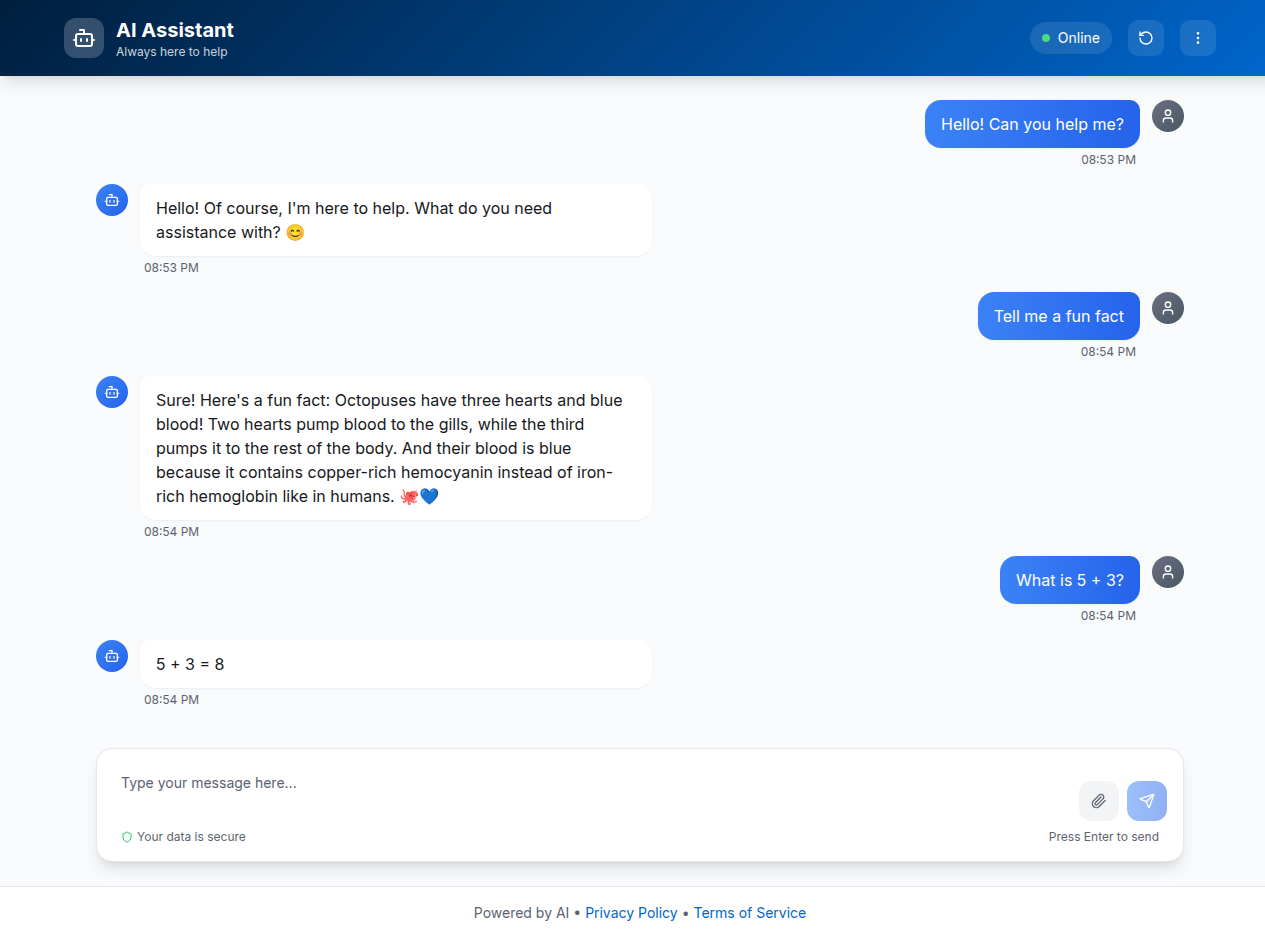
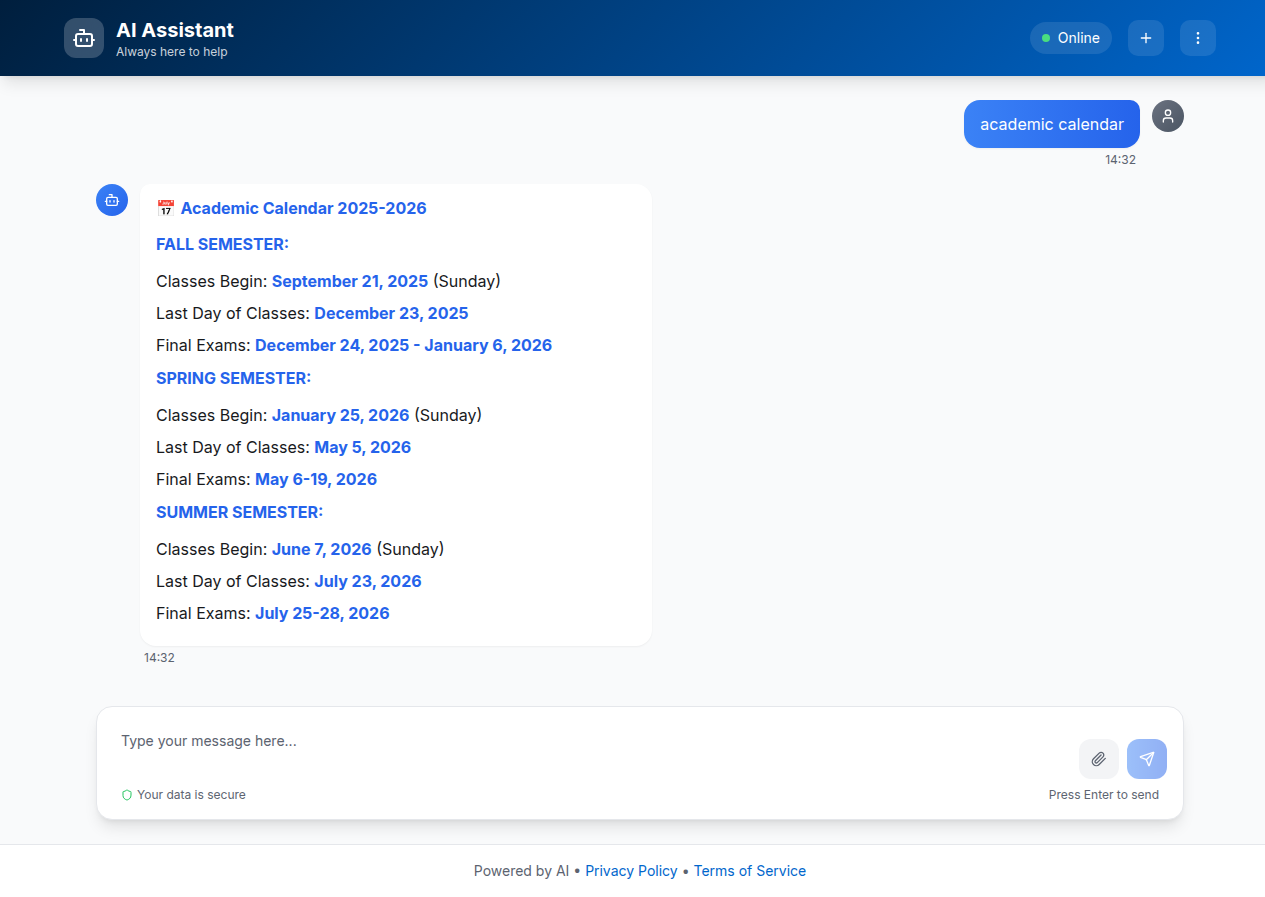
Update chatbot to suggest academic calendar and correct course names
Modify client-side suggestions to include "academic calendar" and update course titles in server-side data.

Replit-Commit-Author: Agent
Replit-Commit-Session-Id: 2b2b8913-718b-40d9-a4ee-a638ee3c5d89
Replit-Commit-Checkpoint-Type: full_checkpoint
Replit-Commit-Screenshot-Url: https://storage.googleapis.com/screenshot-production-us-central1/dbdc48a8-5b60-4a34-bc42-e705fea07ce4/2b2b8913-718b-40d9-a4ee-a638ee3c5d89/eGvz9V8

diff --git a/server/routes.ts b/server/routes.ts
@@ -1006,18 +1006,18 @@ DATA SCIENCE & ARTIFICIAL INTELLIGENCE (120 Credits)
 - ENL201 (Writing and Research)
 - MAT120 (Discrete Mathematics)
 - MAT202 (Linear Algebra)
-- CCS120 (Programming Fundamentals 1) + CCS121 (Lab)
+- CCS120 (Computational Thinking & Programming) + CCS121 (Lab)
 - CCS230 (Data Structures) + CCS231 (Lab)
 
 **YEAR 2 - SPRING:**
 - ENG304 (Probability and Statistics)
-- CCS220 (Programming Fundamentals 2) + CCS221 (Lab)
-- CCS270 (Object-Oriented Programming) + CCS271 (Lab)
-- CCS342 (Database Systems)
+- CCS220 (Object Oriented Design & Programming) + CCS221 (Lab)
 - Global Citizen Elective
+- DAI230 (Mathematics for Data Science & AI)
+- CC342 (IT Infrastructure)
 
 **YEAR 3 - FALL:**
-- DAI230 (Mathematics for Data Science & AI)
+- CCS270 (Fundamental Of Database Systems) + CCS271 (Lab)
 - DAI250 (Fundamentals of Data Science & AI) + DAI251 (Lab)
 - CCS330 (Web Engineering) + CCS331 (Lab)
 - DAI310 (Machine Learning) + DAI311 (Lab)
@@ -1065,18 +1065,19 @@ SOFTWARE ENGINEERING (132 Credits)
 **YEAR 2 - FALL:**
 - ENL201 (Writing and Research)
 - MAT202 (Linear Algebra)
-- CCS120 (Programming Fundamentals 1) + CCS121 (Lab)
-- CCS230 (Data Structures) + CCS231 (Lab)
+- CCS120 (Computational Thinking & Programming) + CCS121 (Lab)
+- ENG304 (Probability and Statistics)
 - Art/Humanities Elective 1
 
 **YEAR 2 - SPRING:**
-- ENG304 (Probability and Statistics)
-- CCS220 (Programming Fundamentals 2) + CCS221 (Lab)
-- CCS270 (Object-Oriented Programming) + CCS271 (Lab)
-- CCS342 (Database Systems)
-- CCS320 (Operating Systems)
+- CCS220 (Object Oriented Design & Programming) + CCS221 (Lab)
+- Art/Humanities Elective 2
+- General Elective 1
+- General Elective 2
 
 **YEAR 3 - FALL:**
+- CCS270 (Fundamental Of Database Systems) + CCS271 (Lab)
+- CCS230 (Data Structures) + CCS231 (Lab)
 - SWE301 (Software Process and Methodologies)
 - SWE305 (Software Requirements Engineering) + SWE306 (Lab)
 - SWE310 (Human-Computer Interaction) + SWE311 (Lab)
@@ -1084,23 +1085,22 @@ SOFTWARE ENGINEERING (132 Credits)
 - Global Citizen Elective
 
 **YEAR 3 - SPRING:**
+- CCS320 (Operating Systems)
+- CCS330 (Web Engineering) + CCS331 (Lab)
 - SWE340 (Software Design and Architecture) + SWE341 (Lab)
 - SWE420 (Software Construction and Evolution) + SWE421 (Lab)
 - SWE430 (Software Testing and Quality Assurance) + SWE431 (Lab)
 - Innovation & Creativity Elective
-- Art/Humanities Elective 2
 
 **YEAR 4 - FALL:**
 - SWE440 (Software Security and Analysis)
 - Program Elective 1
-- General Elective 1
 - Free Elective 1
 - SWE490 (Capstone Design 1)
 
 **YEAR 4 - SPRING:**
 - SWE491 (Capstone Design 2)
 - Program Elective 2
-- General Elective 2
 - Free Elective 2
 - SWE480 (Internship) - Optional
 
@@ -1125,30 +1125,33 @@ CYBERSECURITY ENGINEERING (132 Credits)
 **YEAR 2 - FALL:**
 - ENL201 (Writing and Research)
 - MAT202 (Linear Algebra)
-- CCS120 (Programming Fundamentals 1) + CCS121 (Lab)
-- CCS230 (Data Structures) + CCS231 (Lab)
+- CCS120 (Computational Thinking & Programming) + CCS121 (Lab)
+- CCS241 (Computer Networks)
 - Art/Humanities Elective 1
 
 **YEAR 2 - SPRING:**
 - ENG304 (Probability and Statistics)
-- CCS220 (Programming Fundamentals 2) + CCS221 (Lab)
+- CCS220 (Object Oriented Design & Programming) + CCS221 (Lab)
 - CCS241 (Computer Networks)
-- CCS270 (Object-Oriented Programming) + CCS271 (Lab)
-- CCS320 (Operating Systems)
+- CSE210 (Fundamentals of Cyber Security Engineering)
+- Art/Humanities Elective 2
+
 
 **YEAR 3 - FALL:**
-- CSE210 (Fundamentals of Cyber Security Engineering)
+- CCS230 (Data Structures) + CCS231 (Lab)
 - CSE310 (Cryptography and Data Security) + CSE311 (Lab)
 - CSE325 (Cybersecurity Risk Management) + CSE326 (Lab)
 - CSE341 (Network Security)
 - Global Citizen Elective
 
 **YEAR 3 - SPRING:**
+- CCS270 (Fundamental Of Database Systems) + CCS271 (Lab)
+- CCS320 (Operating Systems)
 - CSE360 (Ethical Hacking and Cyber Laws)
 - CSE410 (Digital Forensics) + CSE411 (Lab)
 - CSE420 (Software Security) + CSE421 (Lab)
 - Innovation & Creativity Elective
-- Art/Humanities Elective 2
+
 
 **YEAR 4 - FALL:**
 - CSE430 (Web Security) + CSE431 (Lab)
@@ -1186,20 +1189,20 @@ COMPUTER SYSTEMS ENGINEERING (132 Credits)
 - ENL201 (Writing and Research)
 - MAT201 (Calculus III)
 - MAT202 (Linear Algebra)
-- CCS120 (Programming Fundamentals 1) + CCS121 (Lab)
+- CCS120 (Computational Thinking & Programming)) + CCS121 (Lab)
 - CCS200 (Digital Logic Design)
 
 **YEAR 2 - SPRING:**
 - MAT240 (Differential Equations)
-- CCS220 (Programming Fundamentals 2) + CCS221 (Lab)
-- CCS230 (Data Structures) + CCS231 (Lab)
+- CCS220 (Object Oriented Design & Programming) + CCS221 (Lab)
+- ENG304 (Probability and Statistics)
 - ENG205 (Electrical Circuits) + ENG206 (Lab)
 - Art/Humanities Elective 1
 
 **YEAR 3 - FALL:**
-- ENG304 (Probability and Statistics)
+- CCS230 (Data Structures) + CCS231 (Lab)
 - CCS241 (Computer Networks)
-- CCS270 (Object-Oriented Programming) + CCS271 (Lab)
+- CCS270 (Fundamental Of Database Systems) + CCS271 (Lab)
 - ENG207 (Electronics) + ENG208 (Lab)
 - CME220 (Introduction to Computer Systems Engineering)
 

diff --git a/client/src/pages/chat.tsx b/client/src/pages/chat.tsx
@@ -1,7 +1,7 @@
 import { useState, useRef, useEffect } from "react";
 import { useQuery, useMutation, useQueryClient } from "@tanstack/react-query";
 import { motion, AnimatePresence } from "framer-motion";
-import { Bot, User, Send, Paperclip, Shield, MoreVertical, MessageCircle, Lightbulb, HelpCircle, Star, RotateCcw, Plus } from "lucide-react";
+import { Bot, User, Send, Paperclip, Shield, MoreVertical, MessageCircle, Calendar, HelpCircle, Star, RotateCcw, Plus } from "lucide-react";
 import { Button } from "@/components/ui/button";
 import { Textarea } from "@/components/ui/textarea";
 import { apiRequest } from "@/lib/queryClient";
@@ -145,7 +145,7 @@ export default function Chat() {
   };
 
   const suggestions = [
-    { icon: Lightbulb, text: "Tell me a fun fact", color: "text-yellow-500" },
+    { icon: Calendar, text: "academic calendar", color: "text-yellow-500" },
     { icon: HelpCircle, text: "How do I get started?", color: "text-blue-500" },
     { icon: Star, text: "What's new?", color: "text-purple-500" },
   ];
